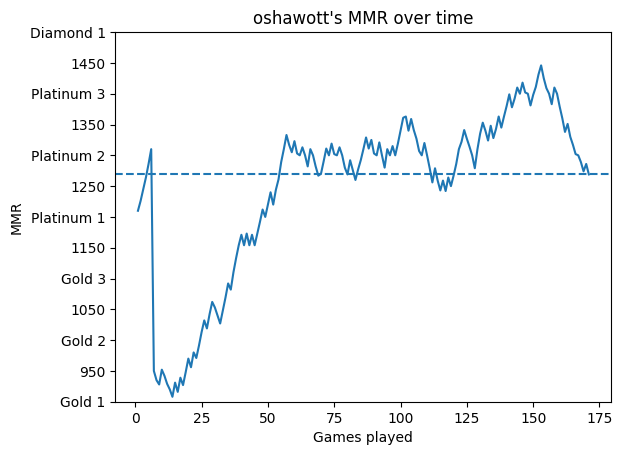
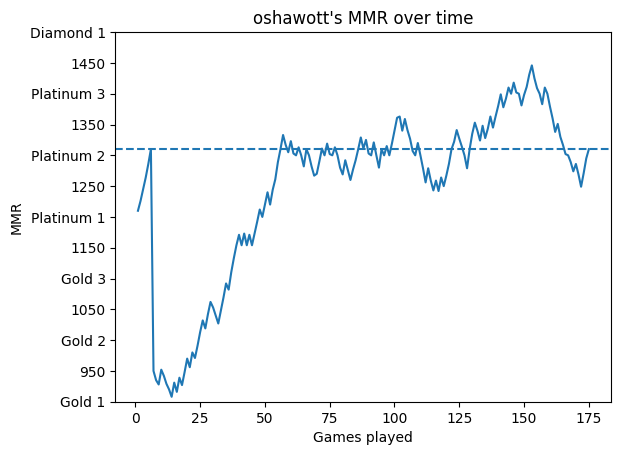
fixed something that was broken

diff --git a/valorant.py b/valorant.py
@@ -53,6 +53,9 @@ def get_elo_from_file(username):
     lines = f.readlines()
     f.close()
 
+    if lines[-1] == '\n':
+        return False
+
     return int(lines[-1])
 
 def initialise_file(username):
@@ -84,7 +87,11 @@ def update_elo_history(username, tagline):
     # Dates of last update
     date_raw = player_data["data"][0]["date_raw"]
     player_file = open(player_file_path, 'r')
-    last_file_update = int(player_file.readline())
+    first_line = player_file.readline()
+    if first_line == '\n':
+        last_file_update = 0
+    else:
+        last_file_update = int(first_line)
     player_file.close()
 
     new_elo_list = []
@@ -137,7 +144,7 @@ def get_elolist(username):
     
     update_elo_history(username, tagline)
 
-    if os.path.isfile('/home/ubuntu/discord_bot/elo_history/{}.txt'.format(username)) == False:
+    if get_elo_from_file(username) == False:
         return "Player not found or hasn't played any comp games recently"
     
     file1 = open('/home/ubuntu/discord_bot/elo_history/{}.txt'.format(username), 'r')
@@ -324,3 +331,7 @@ def servercheck():
         return "no maintenances or incidents reported"
         
     return report
+
+if __name__ == '__main__':
+    print(get_elo_from_file('fakinator'))
+    print(update_elo_history('glizzardwizard', '1001'))

diff --git a/elo_history_updater.py b/elo_history_updater.py
@@ -24,7 +24,7 @@ def update_all_elo_history():
 
         update_count += int(thing)
 
-        #print("completed " + str(i + 1) + "/" + str(len(playerList.players)))
+        print("completed " + str(i + 1) + "/" + str(len(playerList.players)))
         #graphs.make_graph(playerList.players[i].ign)
 
     return str(update_count) + " updates"
